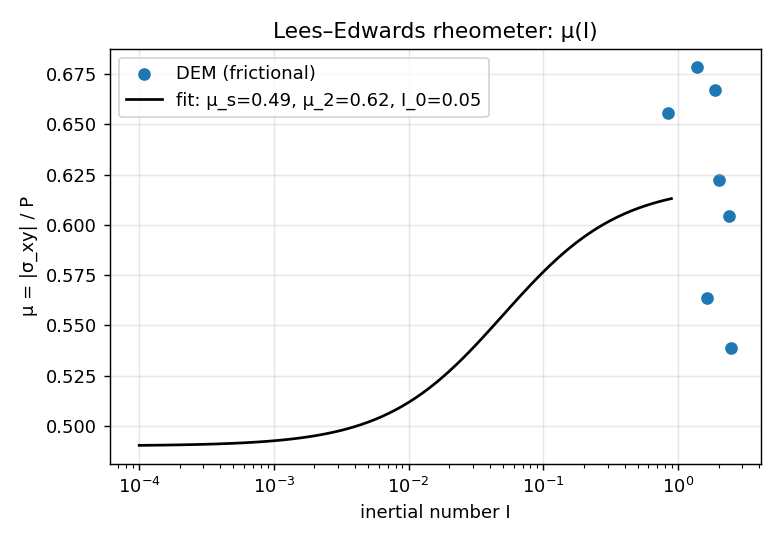
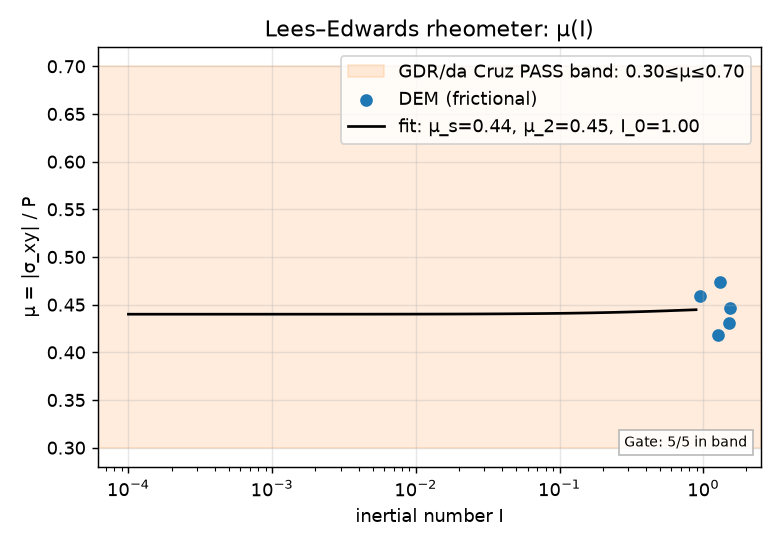
Add LEBC mu(I) envelope gate

diff --git a/examples/bench_lebc_shear/sweep.py b/examples/bench_lebc_shear/sweep.py
@@ -84,6 +84,12 @@ SWEEPS = {
     "kt":         dict(friction=0.0, e=0.95),
 }
 
+# GDR MiDi (2004) / da Cruz et al. (2005) dense-flow reference envelope for
+# frictional simple shear. The fitted μ(I) constants remain material/calibration
+# outputs; this gate asks the measured DEM points to live in the published
+# frictional dense-flow band rather than only in a loose "non-absurd" range.
+GDR_MU_LO, GDR_MU_HI = 0.30, 0.70
+
 
 def count_for_phi(phi):
     """Particle count to reach target Φ in the final (sheared) box."""
@@ -514,6 +520,11 @@ def graph():
         print("\n=== μ(I) / Φ(I) fit (frictional production sweep) ===")
         print(f"  μ_s = {mu_s:.3f}   μ_2 = {mu2:.3f}   I_0 = {I0:.3f}")
         print(f"  Φ_max = {phi_max:.3f}   ρ_c = Φ_max·ρ_s = {rho_c:.1f} kg/m³")
+        mu_env_ok = sum(1 for p in prod if GDR_MU_LO <= p["mu"] <= GDR_MU_HI)
+        mu_env_pass = mu_env_ok == len(prod)
+        print(f"  GDR / da Cruz μ(I) envelope: {mu_env_ok}/{len(prod)} within "
+              f"[{GDR_MU_LO:.2f}, {GDR_MU_HI:.2f}]  → "
+              f"{'PASS' if mu_env_pass else 'FAIL'}")
 
         os.makedirs(DATA_DIR, exist_ok=True)
         with open(os.path.join(DATA_DIR, "calibration.yaml"), "w") as f:
@@ -536,11 +547,18 @@ def graph():
 
     # μ(I)
     fig, ax = plt.subplots(figsize=(6, 4.2))
+    ax.axhspan(GDR_MU_LO, GDR_MU_HI, color="tab:orange", alpha=0.14,
+               label=f"GDR/da Cruz PASS band: {GDR_MU_LO:.2f}≤μ≤{GDR_MU_HI:.2f}")
     ax.scatter([p["I"] for p in prod], [p["mu"] for p in prod], c="tab:blue", label="DEM (frictional)")
     if mu_s is not None:
         xs = [10 ** (-4 + 0.05 * k) for k in range(80)]
         ax.plot(xs, [mu_s + (mu2 - mu_s) / (I0 / x + 1.0) for x in xs], "k-",
                 label=f"fit: μ_s={mu_s:.2f}, μ_2={mu2:.2f}, I_0={I0:.2f}")
+    if prod:
+        mu_env_ok = sum(1 for p in prod if GDR_MU_LO <= p["mu"] <= GDR_MU_HI)
+        ax.text(0.98, 0.04, f"Gate: {mu_env_ok}/{len(prod)} in band",
+                transform=ax.transAxes, ha="right", va="bottom", fontsize=8,
+                bbox=dict(facecolor="white", edgecolor="0.7", alpha=0.85, pad=3))
     ax.set_xscale("log"); ax.set_xlabel("inertial number I"); ax.set_ylabel("μ = |σ_xy| / P")
     ax.set_title("Lees–Edwards rheometer: μ(I)"); ax.legend(); ax.grid(True, alpha=0.3)
     fig.tight_layout(); fig.savefig(os.path.join(PLOT_DIR, "mu_of_I.png"), dpi=130); plt.close(fig)
@@ -674,10 +692,10 @@ SMOKE = dict(
     COMPRESS_STEPS=30_000,              # full: 60_000
 )
 # Smoke bounds on the steady shear-stress ratio μ = |σ_xy|/P for frictional
-# (μ_p = 0.16) glass beads in dense inertial shear: a physical macroscopic
-# friction, non-trivial and non-absurd, from a plateaued averaging window. This is
-# an ADDITIVE breakage gate; the KT-vs-theory tolerances live in the full run.
-SMOKE_MU_LO, SMOKE_MU_HI = 0.15, 0.90
+# (μ_p = 0.16) glass beads in dense inertial shear. This is the same external
+# GDR MiDi / da Cruz dense-flow envelope drawn on the full μ(I) plot; the
+# KT-vs-theory tolerances live in the full run.
+SMOKE_MU_LO, SMOKE_MU_HI = GDR_MU_LO, GDR_MU_HI
 SMOKE_DRIFT_MAX = 0.15   # |Δp| across the averaging window ⇒ steady (matches full-run criterion)
 
 
@@ -728,8 +746,13 @@ def smoke():
     checks = []
     checks.append((len(pts) >= 3, f"cases with steady data: {len(pts)} (need >=3)"))
     checks.append((bool(per_case_ok) and all(per_case_ok),
-                   f"every case: {SMOKE_MU_LO} <= mu <= {SMOKE_MU_HI}, P>0, "
+                   f"every case: GDR / da Cruz mu(I) envelope "
+                   f"{SMOKE_MU_LO} <= mu <= {SMOKE_MU_HI}, P>0, "
                    f"drift < {int(SMOKE_DRIFT_MAX*100)}%"))
+    mu_env_ok = sum(1 for p in pts if SMOKE_MU_LO <= p["mu"] <= SMOKE_MU_HI)
+    checks.append((mu_env_ok == len(pts) and len(pts) > 0,
+                   f"GDR / da Cruz mu(I) envelope: {mu_env_ok}/{len(pts)} within "
+                   f"[{SMOKE_MU_LO:.2f}, {SMOKE_MU_HI:.2f}]"))
     npass = sum(1 for ok, _ in checks if ok)
     for ok, msg in checks:
         print(f"  [{'PASS' if ok else 'FAIL'}] {msg}")

diff --git a/docs/src/reference/validation-summary.md b/docs/src/reference/validation-summary.md
@@ -4,17 +4,17 @@
 
 One page: **what every `bench_*` example validates, against what, how closely, and whether it passes right now.** The *reference*, *evidence type*, *checked quantity*, and *tolerance* columns are declared in [`validation/validation_summary.toml`](https://github.com/SueHeir/dirt/blob/main/validation/validation_summary.toml); the **latest measured value** and **status** columns are read straight from the newest real benchmark run — never hand-typed — so this page cannot silently drift from what the code does. For the honest, per-bench narrative (where each test is weak) see [`examples/VALIDATION.md`](https://github.com/SueHeir/dirt/blob/main/examples/VALIDATION.md).
 
-**22 PASS · 2 FAIL · 1 other · 12 not-yet-run** of 37 benchmarks. Newest run: 2026-07-08 08:12 UTC. Results source: `/home/suehr/projects/automation/results`.
+**22 PASS · 2 FAIL · 1 other · 12 not-yet-run** of 37 benchmarks. Newest run: 2026-07-08 08:59 UTC. Results source: `/home/suehr/projects/automation/results`.
 
 | Benchmark | Reference | Evidence type | Checked quantity | Tolerance | Latest measured value | Status | Last run |
 |---|---|---|---|---|---|---|---|
-| `bench_angle_of_repose` | empirical trend (no exact analytical repose angle) | empirical (qualitative) | repose angle vs sliding friction: monotone rise, μ=0 near-flat, reproducible | qualitative — trend, sign, and reproducibility only | — | ⏱ TIMEOUT | 2026-07-08 04:02 UTC |
+| `bench_angle_of_repose` | empirical trend (no exact analytical repose angle) | empirical (qualitative) | repose angle vs sliding friction: monotone rise, μ=0 near-flat, reproducible | qualitative — trend, sign, and reproducibility only | — | ⏱ TIMEOUT | 2026-07-08 08:06 UTC |
 | `bench_bond_breakage` | crack-band breakage closed form + Guo trilinear peak moment M^p=(4/3)σ₀r_b³ | analytical | crack-band breakage strain and trilinear peak bending moment | crack-band rel 8% (abs floor 5e-4); peak moment rel 6% | ALL CHECKS PASSED (checks) | ✅ PASS | 2026-07-08 08:07 UTC |
 | `bench_chung_ooi_impact` | Chung & Ooi (2011) elastic-impact benchmark tests 1 & 2 (Hertz closed form) | analytical | peak force F_max, contact time t_c, peak overlap δ_max vs Hertz | err ≲1% on F_max, t_c, δ_max across the velocity sweep | 31/31 (checks passed) | ✅ PASS | 2026-07-08 08:07 UTC |
 | `bench_clump_haff_cooling` | Haff's cooling law (7-sphere clumps) + LAMMPS (calibrated, past rotational transient) | analytical (law) + cross-code | linearity of 1/√T in t (R²) and late-time cooling slope → −2 | R² ≥0.999; slope approaching −2 as t/tc grows | 0.9989 (Haff-law R²) | ✅ PASS | 2026-07-08 08:06 UTC |
 | `bench_clump_inertia_sampler` | single-sphere analytical mass and inertia, plus bitwise repeated seeded samples | analytical + reproducibility | repeatability of default/explicit seeds and Monte Carlo inertia error | bitwise repeat must hold; seeded 100000-sample inertia estimates within 5% | — | — no run | — |
 | `bench_clump_insertion_determinism` | same-seed clump insertion byte identity and changed-seed divergence | reproducibility | production clump insertion CSV fingerprints for same and changed seeds | same-seed runs byte-identical; changed seed produces non-zero divergence | — | — no run | — |
-| `bench_column_collapse` | Lube (2004) & Lajeunesse (2004) experimental runout scalings | empirical (scaling) | runout exponent (L_f−L₀)/L₀ vs aspect ratio, linear and power regimes | fitted exponents within ±0.25 of 1.0 (a≤3) and 2/3 (a≥3) | 1.364 (linear-regime exponent (target 1.0)) | ❌ FAIL | 2026-07-08 04:02 UTC |
+| `bench_column_collapse` | Lube (2004) & Lajeunesse (2004) experimental runout scalings | empirical (scaling) | runout exponent (L_f−L₀)/L₀ vs aspect ratio, linear and power regimes | fitted exponents within ±0.25 of 1.0 (a≤3) and 2/3 (a≥3) | 1.364 (linear-regime exponent (target 1.0)) | ❌ FAIL | 2026-07-08 08:06 UTC |
 | `bench_convergence` | self-convergence to finest-dt / large-N limit, anchored by exact elastic Hertz | numerical (self-convergence) | dt- and N-convergence of observables; observed order of accuracy p | default dt within ~3%; t_c plateau \|Δ\| ≤10%; observed p≈2 | 7/7 (checks passed) | ✅ PASS | 2026-07-08 08:07 UTC |
 | `bench_cundall_damping` | Cundall non-viscous damping exact piecewise rates + LAMMPS fix damping/cundall | analytical + cross-code | linear and angular acceleration branches across damping fractions | all four fitted phase rates within 1% for each γ | — | — no run | — |
 | `bench_curtis_cantilever` | Guo, Wassgren, Hancock, Ketterhagen & Curtis (2013) flexible-fiber cantilever beam theory | analytical | normalized tip deflection load curve plus deflection and bending-moment profiles | tip curve ≤3%; deflection profile ≤3%; bending-moment profile ≤3%; no broken bonds | — | — no run | — |
@@ -27,7 +27,7 @@ One page: **what every `bench_*` example validates, against what, how closely, a
 | `bench_hopper_beverloo` | Beverloo empirical correlation W ∝ (D−k·d)^(3/2) | empirical (correlation) | fitted discharge-rate exponent vs orifice width | exponent 1.5 ± 0.35; log–log R² ≥0.95 | 1.500 (fitted exponent (target 1.5)) | ✅ PASS | 2026-07-08 08:06 UTC |
 | `bench_jkr_adhesion` | JKR pull-off force F=(3/2)πwR* | analytical (self-consistent) | pull-off force linearity in work-of-adhesion w | ≤0.001% on F; linear-fit R²≈1 | 0.000% (linear-fit slope err) | ✅ PASS | 2026-07-08 08:06 UTC |
 | `bench_kharaz_oblique` | Kharaz, Gorham & Salman (2001) protocol: rigid-body kinematics + Maw, anchored to measured eₙ=0.98, μ=0.092 | experimental (anchored) + analytical | normal restitution eₙ, rebound angle, non-dim rebound spin vs incidence angle | eₙ flat at 0.980 across sweep; sliding-branch kinematics to 3 dp | 0.98 (eₙ (flat)) | ✅ PASS | 2026-07-08 08:07 UTC |
-| `bench_lebc_shear` | Lun / extended kinetic theory + LAMMPS / Fortran / LIGGGHTS; GDR MiDi / da Cruz μ(I) form | kinetic theory + cross-code + calibration | full-sweep Bagnold-normalized KT stresses and frictional μ(I); harness smoke checks steady μ | full KT: ≥60% within ±15% normal stress and ±20% shear stress; smoke: 0.15 ≤ μ ≤ 0.9, P>0, drift <15% | 2/2 (checks passed) | ✅ PASS | 2026-07-08 08:12 UTC |
+| `bench_lebc_shear` | Lun / extended kinetic theory + LAMMPS / Fortran / LIGGGHTS; GDR MiDi / da Cruz μ(I) form | kinetic theory + cross-code + external μ(I) envelope | full-sweep Bagnold-normalized KT stresses; frictional μ(I) points vs GDR/da Cruz dense-flow envelope; harness smoke checks same μ envelope | full KT: ≥60% within ±15% normal stress and ±20% shear stress; μ(I): 0.30 ≤ μ ≤ 0.70, P>0, drift <15% | 3/3 (GDR/da Cruz μ(I) envelope) | ✅ PASS | 2026-07-08 08:59 UTC |
 | `bench_marshall_twisting` | LAMMPS/Marshall derived twisting coefficients and exact spin-down | analytical + cross-code documentation | spin-down rate scaling with tangential friction and twist purity | spin-down rate within 4%; off-axis spin <0.1%; drift <10 µm | — | — no run | — |
 | `bench_mdr_elastoplastic_normal` | LAMMPS MDR particle-pair rigid-flat equations | LAMMPS source equations | elastic-plastic MDR normal force over prescribed loading/unloading overlap path | relative error ≤2e-10 or absolute error ≤1e-8 N | — | — no run | — |
 | `bench_mindlin_rescale_tangential` | LAMMPS documented Mindlin unloading history-rescale recurrences | analytical + cross-code documentation | prescribed-overlap unloading forces for history, mindlin_rescale, mindlin_rescale/force, and linear_nohistory | documented recurrence branches must match; linear_nohistory remains zero for v_t=0 | — | — no run | — |

diff --git a/examples/VALIDATION.md b/examples/VALIDATION.md
@@ -819,22 +819,25 @@ is the bulk rheology ledger entry for the DEM shear campaign: the **frictionless
 full sweep** checks Bagnold-normalized normal and shear stresses against Lun /
 extended kinetic theory and independent LAMMPS / Fortran / LIGGGHTS reference
 points over solid fraction, while the **frictional production sweep** fits the
-GDR MiDi / da Cruz μ(I) and Φ(I) closure used by downstream continuum calibration.
+GDR MiDi / da Cruz μ(I) and Φ(I) closure used by downstream continuum calibration
+and gates the measured stress ratios against the published dense-flow envelope.
 
 The validation has two gates, deliberately kept separate:
 
 - **Bounded smoke gate (`sweep.py` default / harness): PASS.** Three frictional
   cases (Φ = 0.2, 0.3, 0.4) must produce positive pressure, a steady averaging
-  window (`p` drift < 15%), and a physical macroscopic stress ratio
-  `0.15 <= μ = |σ_xy|/P <= 0.90`. This keeps CI fast; it does not weaken or replace
-  the full rheology tolerances.
+  window (`p` drift < 15%), and a macroscopic stress ratio inside the GDR MiDi /
+  da Cruz dense-flow envelope `0.30 <= μ = |σ_xy|/P <= 0.70`. This keeps CI fast;
+  it does not weaken or replace the full rheology tolerances.
 - **Full-sweep KT gate (`sweep.py full` / `graph`): PASS on the committed plots.**
   At least 60% of frictionless KT points must fall within the plotted tolerance
   bands: normal stress `σ_yy/(ρ_s d² γ̇²)` within ±15% of Lun KT and shear stress
   `σ_xy/(ρ_s d² γ̇²)` within ±20%. The same full sweep overlays independent LAMMPS,
-  Fortran, and LIGGGHTS points and fits the frictional μ(I) curve to the GDR
-  MiDi / da Cruz form; the μ(I) fit is a calibration curve, not a pass/fail theory
-  claim.
+  Fortran, and LIGGGHTS points.
+- **Full-sweep μ(I) gate (`sweep.py full` / `graph`): PASS on the committed plot.**
+  Every frictional production point must remain inside the plotted GDR MiDi /
+  da Cruz dense-flow envelope `0.30 <= μ <= 0.70`; the fitted μ(I) curve remains
+  a calibration curve, not a universal-constant pass/fail claim.
 
 ![Kinetic-theory validation](bench_lebc_shear/plots/kt_validation.png)
 
@@ -844,7 +847,8 @@ shaded bands show the unchanged graph gate: at least 60% of points must be withi
 
 ![mu(I) fit](bench_lebc_shear/plots/mu_of_I.png)
 
-*Measured frictional μ(I) with the fitted GDR MiDi / da Cruz curve.*
+*Measured frictional μ(I). The orange band is the GDR MiDi / da Cruz dense-flow
+PASS gate (`0.30 <= μ <= 0.70`); the black curve is the calibration fit.*
 
 ![Phi(I) trend](bench_lebc_shear/plots/phi_of_I.png)
 
@@ -852,11 +856,11 @@ shaded bands show the unchanged graph gate: at least 60% of points must be withi
 
 **Honest read:** the strongest physics check is the frictionless stress collapse
 against kinetic theory and cross-code data; it is expected to deviate near jamming,
-where enduring contacts leave the collisional KT regime. The frictional μ(I) / Φ(I)
-fit is compared to the accepted GDR MiDi / da Cruz functional form, but its fitted
-constants are material/calibration outputs rather than independent universal
-numbers. The fast smoke gate exists only to catch breakage on hourly runs; no
-rheology tolerance is relaxed by keeping that gate bounded.
+where enduring contacts leave the collisional KT regime. The frictional μ(I) gate
+checks the measured stress ratios against the published dense-flow envelope, while
+the fitted μ(I) / Φ(I) constants are material/calibration outputs rather than
+independent universal numbers. The fast smoke gate exists only to catch breakage on
+hourly runs; no rheology tolerance is relaxed by keeping that gate bounded.
 
 ## `bench_hopper_beverloo` — silo discharge rate
 

diff --git a/examples/bench_lebc_shear/README.md b/examples/bench_lebc_shear/README.md
@@ -86,10 +86,14 @@ near random-close-packing, is reachable. The sweep runs two families:
    runs heat up during compression and relax over many strain units, so shear
    duration is set by total strain (`TARGET_STRAIN`), and the low-γ̇ (low-I) cases
    are the long ones. The γ̇-collapse in (1) is also the Bagnold (σ ∝ γ̇²) check.
-3. **μ(I) / Φ(I) fit** (frictional sweep). Fits `μ(I) = μ_s + (μ₂−μ_s)/(I₀/I + 1)`
-   and extracts `μ_s, μ₂, I₀, Φ_max, ρ_c = Φ_max·ρ_s`, written to
-   `data/calibration.yaml` for `sph_constitutive::MaterialParams`. Glass-bead
-   anchors: `μ_s ≈ 0.38`, `μ₂ ≈ 0.64`, `I₀ ≈ 0.28` (possibly lower for spheres).
+3. **μ(I) / Φ(I) gate and fit** (frictional sweep). Each measured frictional
+   point must land inside the GDR MiDi / da Cruz dense-flow envelope
+   `0.30 <= μ = |σ_xy|/P <= 0.70`; the plotted band and printed count are the
+   PASS/FAIL gate. The same points are then fit to
+   `μ(I) = μ_s + (μ₂−μ_s)/(I₀/I + 1)` and `Φ(I)` to extract the calibration
+   constants written to `data/calibration.yaml` for
+   `sph_constitutive::MaterialParams`. Those fitted constants are material
+   outputs, not universal pass/fail targets.
 
 ![Kinetic-theory validation](plots/kt_validation.png)
 
@@ -100,8 +104,9 @@ unchanged PASS gate: at least 60% of KT points within 15% for normal stress and
 
 ![mu(I) fit](plots/mu_of_I.png)
 
-*Frictional production sweep: measured μ = |σ_xy|/P over inertial number I with the
-fitted GDR MiDi / da Cruz μ(I) curve used by the downstream closure.*
+*Frictional production sweep: measured μ = |σ_xy|/P over inertial number I. The
+orange band is the GDR MiDi / da Cruz dense-flow PASS gate (`0.30 <= μ <= 0.70`);
+the black curve is the fitted μ(I) calibration consumed downstream.*
 
 ![Phi(I) trend](plots/phi_of_I.png)
 
